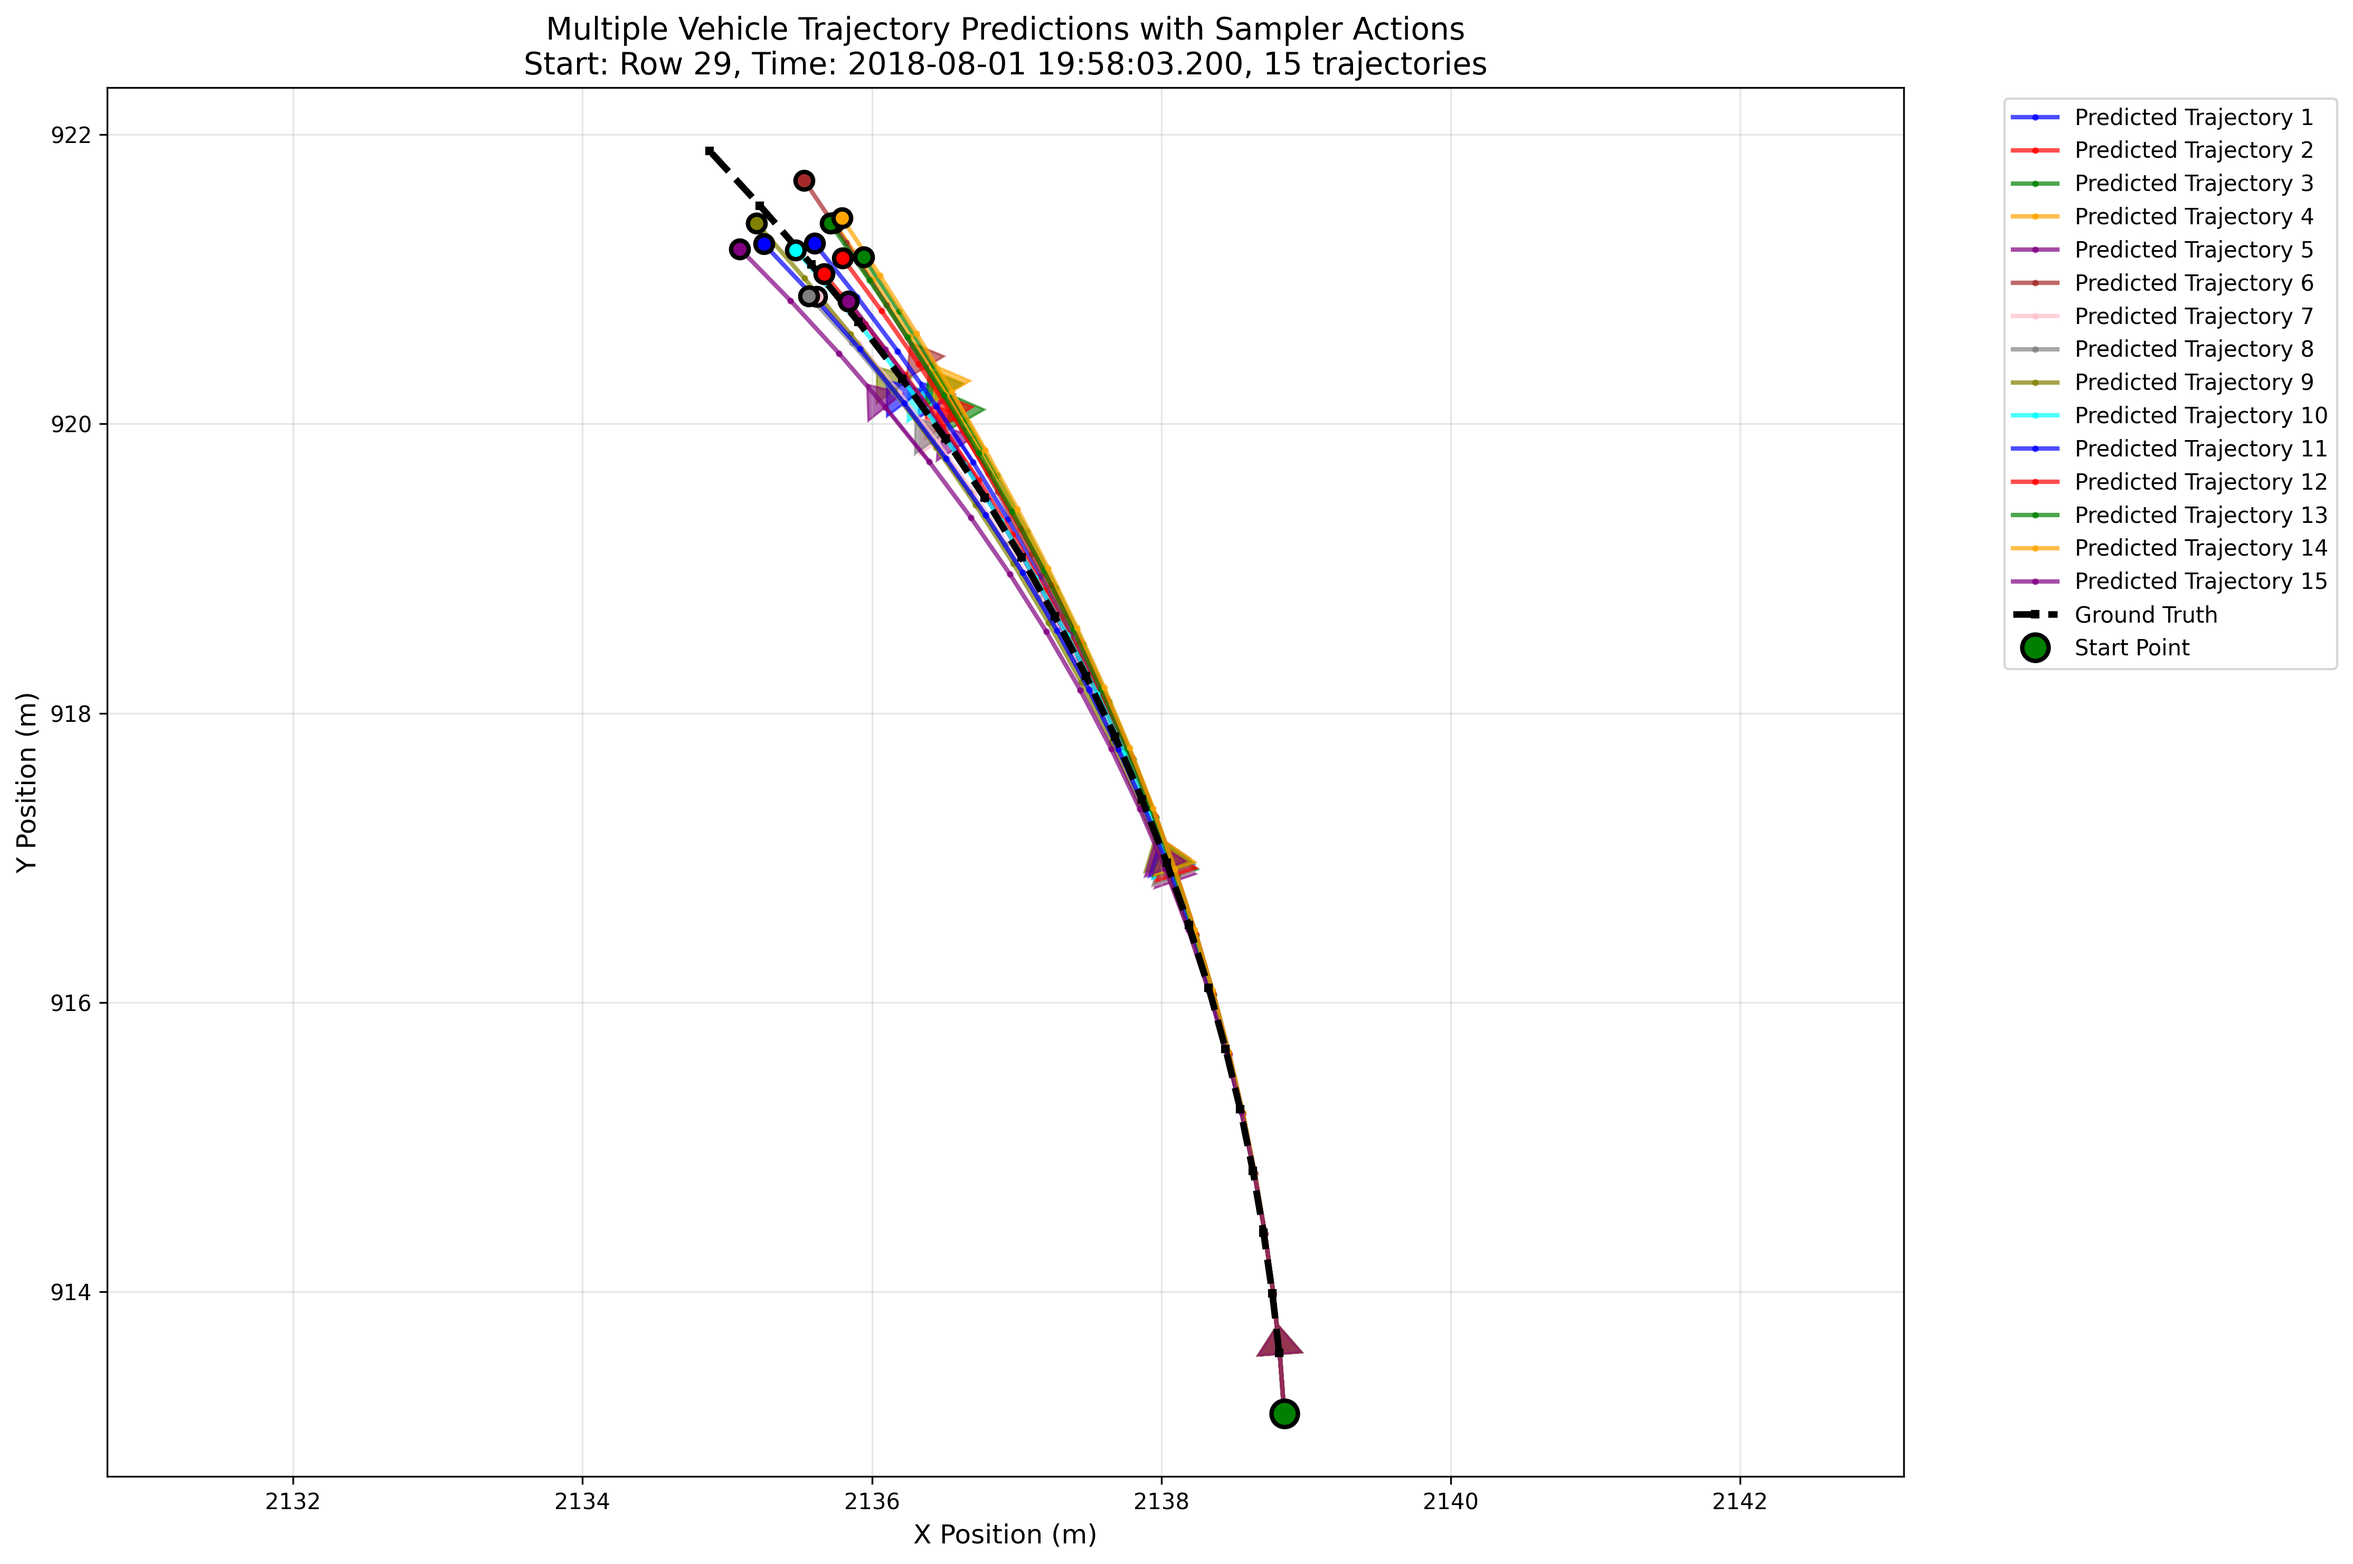
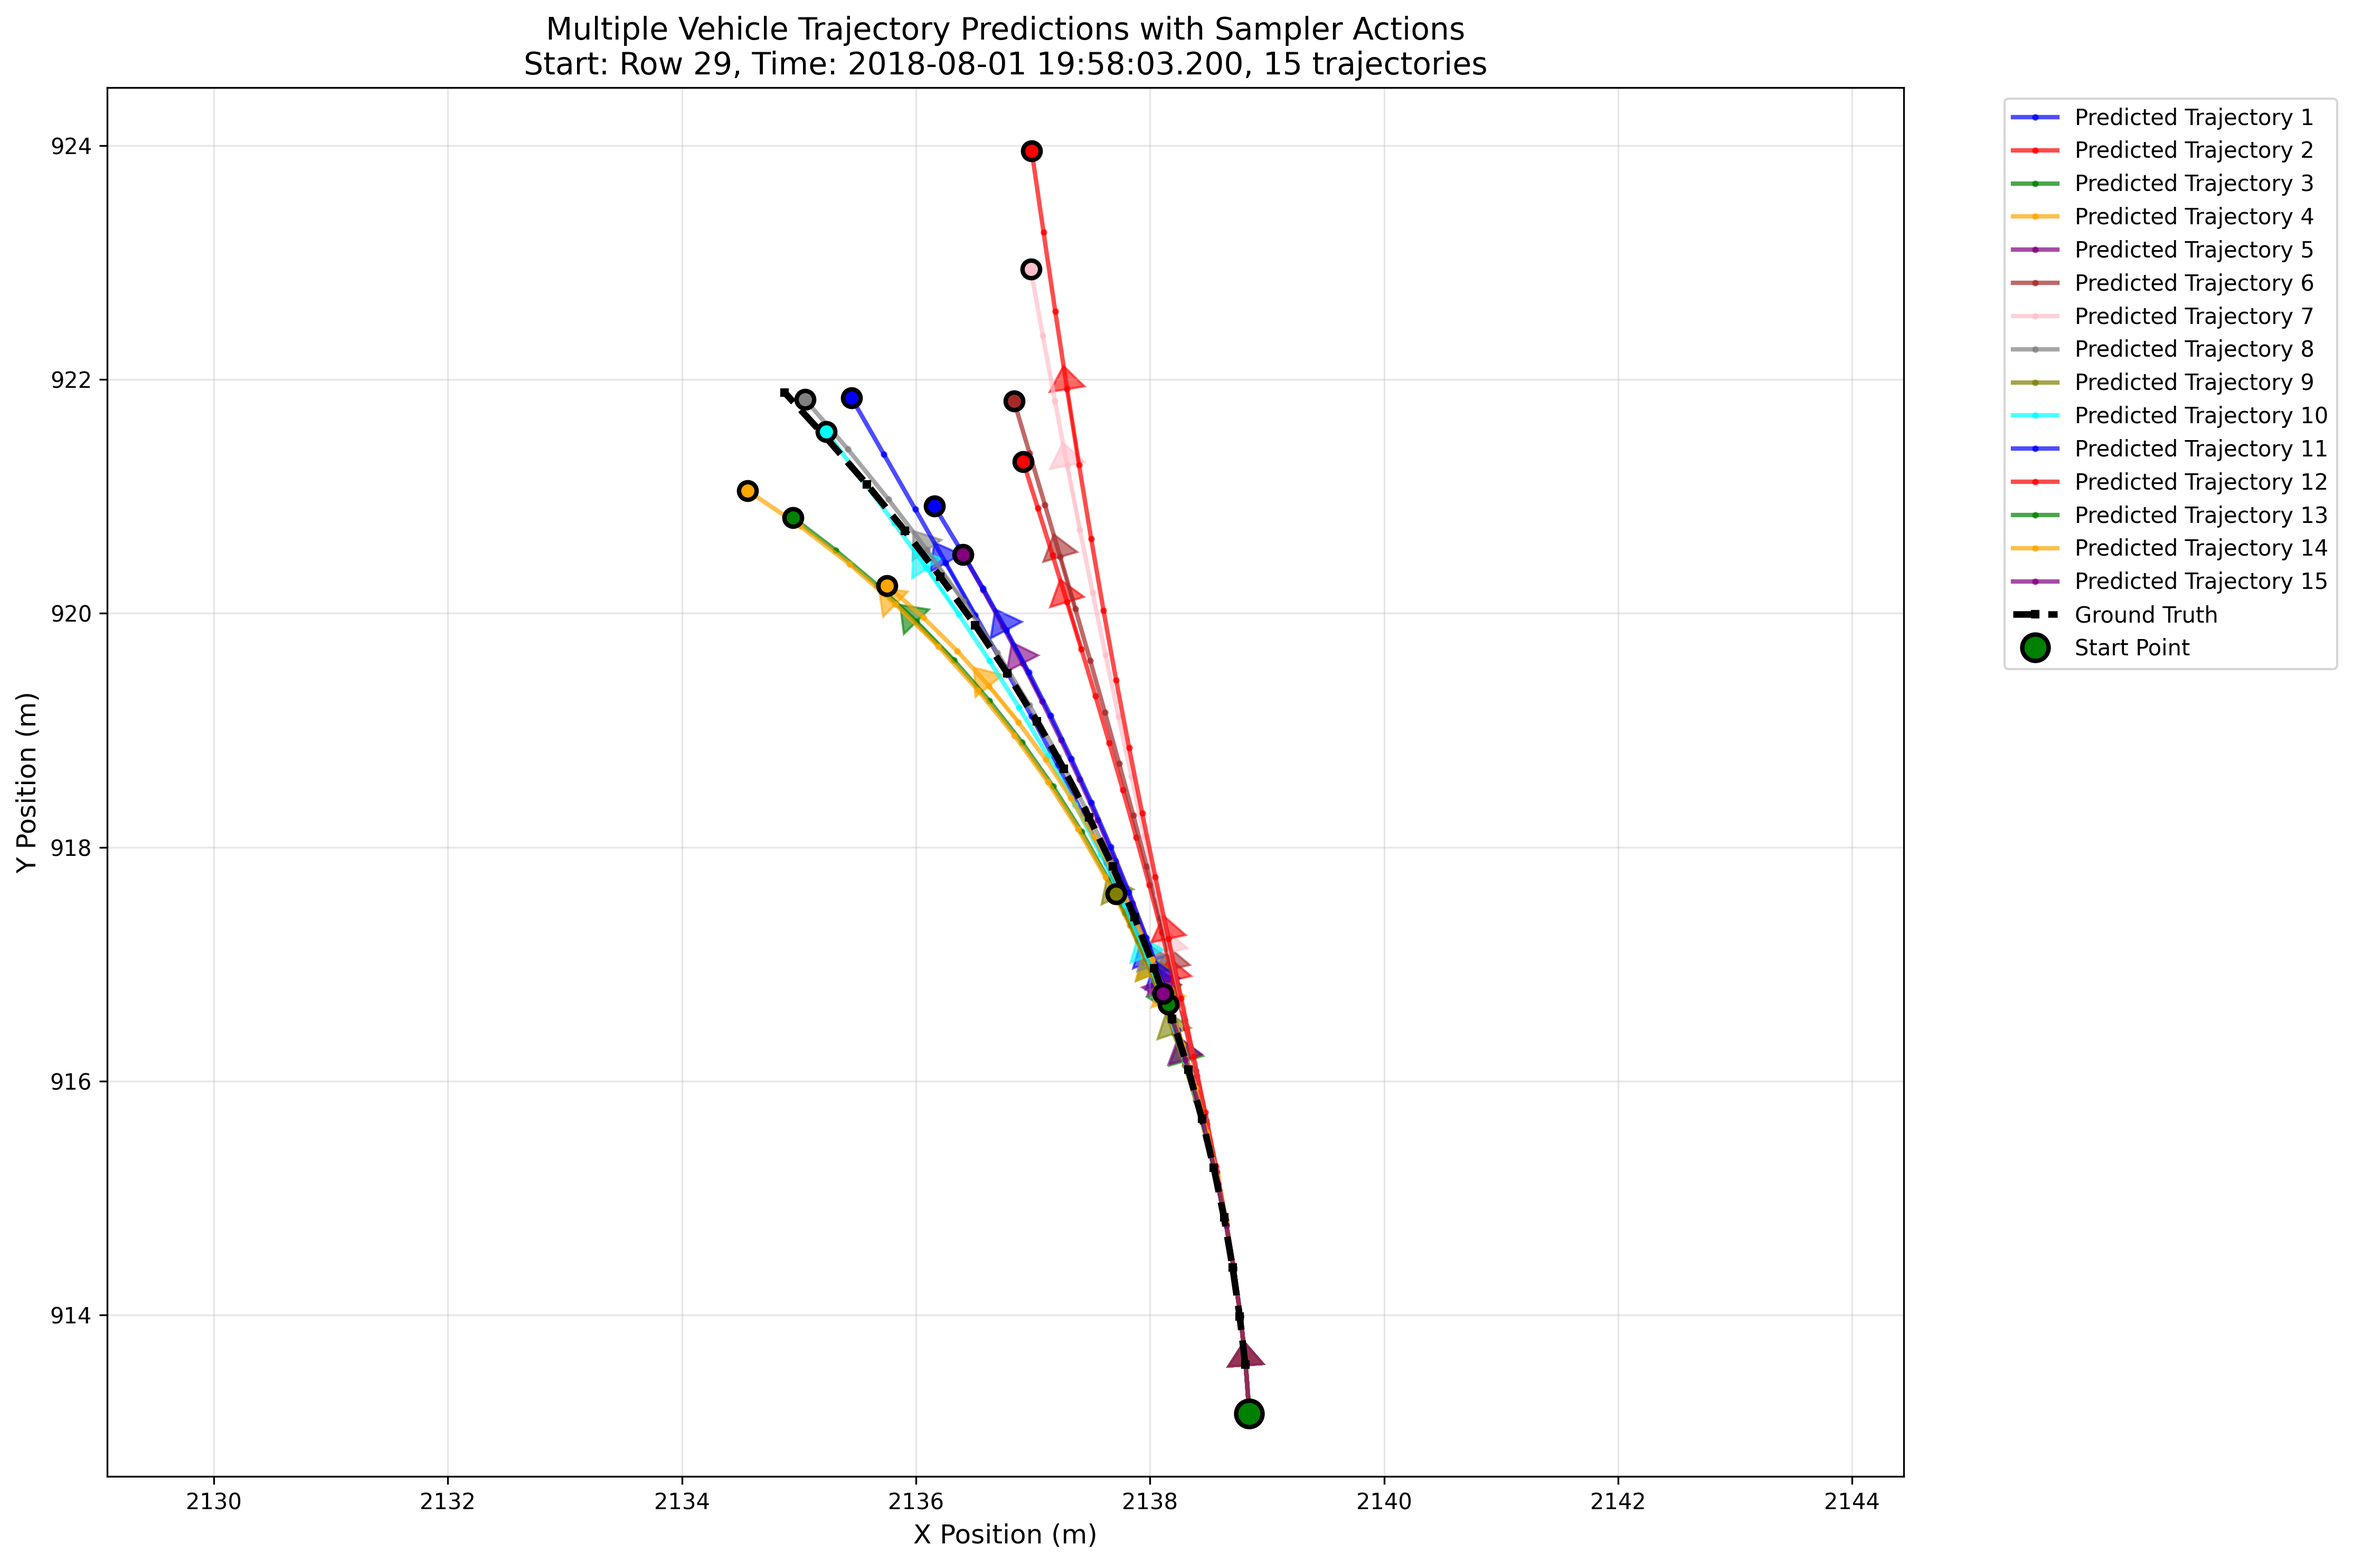
env config

diff --git a/model_sampler/model_sampler.py b/model_sampler/model_sampler.py
@@ -188,7 +188,7 @@ class Simplified_Trajectory_Sampler(nn.Module):
         
         return actions
 
-    def forward(self, waypoints, ground_truth_actions=None, training=True):
+    def forward(self, waypoints, ground_truth_actions=None, training=True, temperature=1.0):
         """
         前向传播
         
@@ -223,14 +223,14 @@ class Simplified_Trajectory_Sampler(nn.Module):
             # 推理模式：只使用 waypoints，从先验分布采样
             waypoint_encoding, _ = self.encode(waypoints, actions=None)
             
-            # 从标准正态分布采样
-            latent_code = torch.randn(waypoint_encoding.shape[0], self.latent_dim).to(self.device)
+            # 从标准正态分布采样，使用温度参数
+            latent_code = torch.randn(waypoint_encoding.shape[0], self.latent_dim).to(self.device) * temperature
             
             # 解码
             sampled_actions = self.decode(latent_code, waypoint_encoding)
             return sampled_actions
 
-    def sample_multiple(self, waypoints, n_samples=10):
+    def sample_multiple(self, waypoints, n_samples=10, temperature=5.0):
         """
         生成多个可能的action序列
         
@@ -249,7 +249,7 @@ class Simplified_Trajectory_Sampler(nn.Module):
             all_actions = []
             for _ in range(n_samples):
                 # 每次从先验分布采样不同的潜在编码
-                latent_code = torch.randn(batch_size, self.latent_dim).to(self.device)
+                latent_code = torch.randn(batch_size, self.latent_dim).to(self.device) * temperature
                 actions = self.decode(latent_code, waypoint_encoding)
                 all_actions.append(actions.unsqueeze(1))
             
